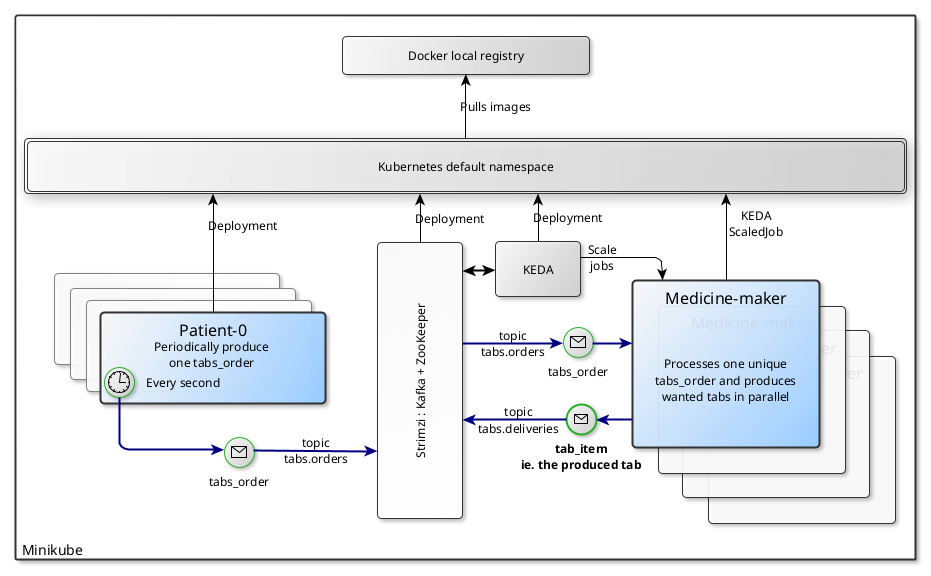
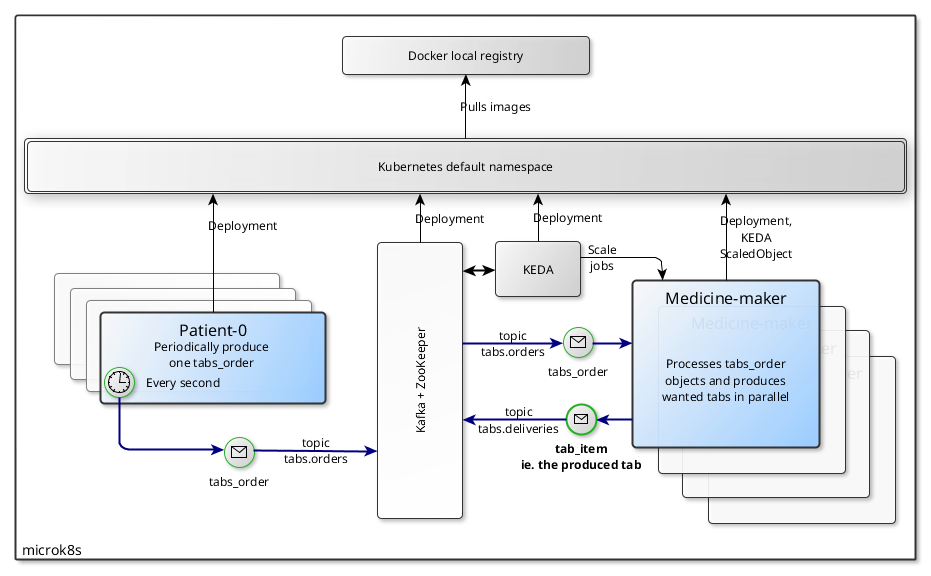
Updated documentation and sketches

diff --git a/README.md b/README.md
@@ -32,7 +32,7 @@ This quickstart automatic procedure will leave you with following resources up a
 
 See [detailed instructions](documentation/PREPARE_INFRA.md) and learn what this [convenience script](make_infra.sh) sets up for you :
 - deploys Kafka service to kubernetes
-- deploys KEDA facilities to kubernetes
+- deploys KEDA facilities to kubernetes (minikube only)
 - creates required topics in Kafka
 
 ## Build instructions
@@ -44,7 +44,7 @@ See [detailed instructions](documentation/PREPARE_INFRA.md) and learn what this 
 > **This script will be used by developers, as it updates application logic Docker images, in k8s**
 
 See [detailed build instructions](documentation/BUILD_INSTRUCTIONS.md) and learn what this [convenience build script](make_build.sh) does for you :
-- starts a local docker registry in *minikube*
+- starts a local docker registry in *minikube* (minikube only)
 - builds *patient* and *medicine* Docker images
 - and tags images to local *minikube* Docker registry
 
@@ -118,5 +118,5 @@ kubectl scale -n default deployment patient-0 --replicas=<new replica count>
 The *medicine tabs* production jobs count will scale accordingly (up or down). Indeed, setting *replicas* to 0 does pause patient tabs orders production. However, *medicine workers* will catch up enventually buffered orders.
 
 # Yet to be done
-- Refactor and use permanent consumer that creates jobs in k8s ; instead of leaving autoscaling of jobs to KEDA (coldstart, topic partitions number dependency, more realtime)
+- Remove *Kafka* and use *Redis* as a *PubSub* service ; get rid of *partitions count workers limit*
 - Better use DLQ and implement a recovery strategy by retrying saved failed payloads

diff --git a/WORK_SUMMARY.md b/WORK_SUMMARY.md
@@ -55,16 +55,15 @@ This _Patient_ process should run in a _docker_ container, orchestrated by _Kube
 ### Medicine maker / consumer
 #### Synopsis
 _Medicine_ is in charge of ONE `tabs_order` message :
-- getting only one `tabs_order` message from *Kafka* topic
+- getting `tabs_order` messages from *Kafka* topic
 - checking `tab_order` incoming payload
 - parallel creation of `tab_item` json objects
 - publishing crafted `tab_item` json objects to `tabs.deliveries` *Kafka* topic, for subsequent delivery handling (out of scope)
-- exit and allow another job to start
 
 > See [detailed definition of `tab_item` object](documentation/README.md#tab-item-factory) and learn more.
 
 #### K8s Resource type
-This _Medicine_ process should run in a _docker_ container, orchestrated by _Kubernetes_ and `KEDA` as a **ScaledJob**, with a `Kafka` type *trigger* :
+This _Medicine_ process should run in a _docker_ container, orchestrated by _Kubernetes_ and `KEDA` as a **ScaledObject** **Deployment**, with a `Kafka` type *trigger* :
 - no network access to micro service is needed so far
 - process should start in a decoupled manner
 - numerous jobs may be started, depending on *Patient* process activity
@@ -80,5 +79,3 @@ The current implementation of this facility provides with great advantages, as w
 
 ### Cons
 - autoscaling features are dependent on Kafka topics partitions count
-- coldstart time is longer than actual payload cimputation time
-- message consumption is *not really* realtime, as autoscaler polls periodically and performs autoscaling actions periodically too
